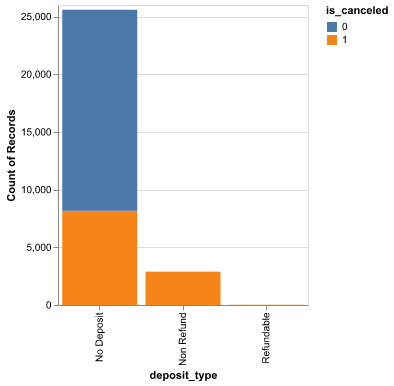
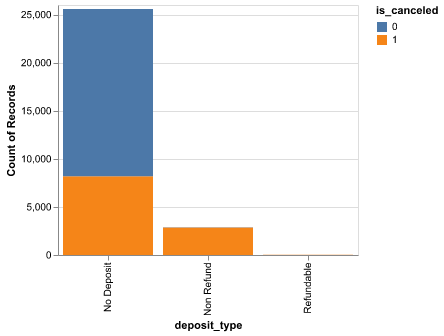
added eda barplot function + tests

diff --git a/tests/test_eda_barplot.py b/tests/test_eda_barplot.py
@@ -1,0 +1,110 @@
+"""
+Unit tests for the create_barplot function.
+
+The tests verify that the create_barplot function correctly generates
+Altair categorical bar plots under expected conditions, handles edge cases
+and raises clear errors for invalid inputs.
+"""
+
+import pytest
+import pandas as pd
+import altair as alt
+import sys
+import os
+sys.path.append(os.path.join(os.path.dirname(__file__), '..'))
+from src.eda_barplot import create_barplot
+
+#expected cases
+def test_create_barplot_basic_categorical():
+    """
+    Basic bar plot with a single categorical variable.
+    """
+    df = pd.DataFrame({"category": ["A", "A", "B", "C", "C"]})
+
+    chart = create_barplot(df, x_col="category")
+
+    assert isinstance(chart, alt.Chart)
+    assert chart.mark == "bar"
+    assert chart.encoding.x.shorthand == "category"
+    assert chart.encoding.x.to_dict()["type"] == "nominal"
+    assert chart.encoding.y.to_dict()["aggregate"] == "count"
+
+def test_create_barplot_with_color_grouping():
+    """
+    Grouped bar plot with a categorical color variable.
+    """
+    df = pd.DataFrame({
+        "group": ["X", "X", "Y", "Y"],
+        "label": ["yes", "no", "yes", "no"]
+    })
+
+    chart = create_barplot(df, x_col="group", color_col="label")
+
+    assert chart.mark == "bar"
+    assert chart.encoding.x.shorthand == "group"
+    assert chart.encoding.x.to_dict()["type"] == "nominal"
+    assert chart.encoding.color.shorthand == "label"
+    assert chart.encoding.color.to_dict()["type"] == "nominal"
+    assert chart.encoding.y.to_dict()["aggregate"] == "count"
+
+#edge cases
+def test_create_barplot_single_unique_value():
+    """
+    Edge case where the categorical column has only one unique value.
+    """
+    df = pd.DataFrame({"type": ["only_one", "only_one", "only_one"]})
+
+    chart = create_barplot(df, x_col="type")
+
+    assert chart.encoding.x.shorthand == "type"
+    assert chart.encoding.x.to_dict()["type"] == "nominal"
+    assert chart.encoding.y.to_dict()["aggregate"] == "count"
+
+def test_create_barplot_multiple_rows_same_category_and_color():
+    """
+    Edge case with repeated category + color combinations.
+    """
+    df = pd.DataFrame({
+        "category": ["A", "A", "A"],
+        "group": ["G1", "G1", "G1"]
+    })
+
+    chart = create_barplot(df, x_col="category", color_col="group")
+
+    assert chart.encoding.x.shorthand == "category"
+    assert chart.encoding.color.shorthand == "group"
+    assert chart.encoding.y.to_dict()["aggregate"] == "count"
+
+#error cases
+def test_create_barplot_empty_dataframe():
+    """
+    Tests if empty dataframe fails with a clear error message.
+    """
+    df = pd.DataFrame()
+
+    with pytest.raises(ValueError, match="Input dataframe is empty."):
+        create_barplot(df, x_col="anything")
+
+
+def test_create_barplot_missing_x_column():
+    """
+    Raises error when x column not present in dataframe.
+    """
+    df = pd.DataFrame({
+        "col1": ["A", "B", "C"]
+    })
+
+    with pytest.raises(ValueError, match="Column 'missing' not found in dataframe."):
+        create_barplot(df, x_col="missing")
+
+
+def test_create_barplot_missing_color_column():
+    """
+    Raises error when color column not present in dataframe.
+    """
+    df = pd.DataFrame({
+        "category": ["A", "B", "C"]
+    })
+
+    with pytest.raises(ValueError, match="Column 'color' not found in dataframe."):
+        create_barplot(df, x_col="category", color_col="color")

diff --git a/scripts/eda.py b/scripts/eda.py
@@ -11,6 +11,10 @@ import click
 import matplotlib.pyplot as plt
 import altair as alt
 import numpy as np
+import sys
+import os
+sys.path.append(os.path.join(os.path.dirname(__file__), '..'))
+from src.eda_barplot import create_barplot
 
 alt.data_transformers.disable_max_rows()
 
@@ -55,22 +59,10 @@ def create_eda_plot(input_path, figure_prefix):
     plt.close()
     click.echo(f"Correlation matrix of numerical features saved!")
 
-    target_dist = alt.Chart(data).mark_bar().encode(
-        x='is_canceled:N',
-        y='count()'
-    ).properties(width=300, height=250)
-
-    target_dist.save(f"{figure_prefix}_target_var_distribution.png")
-
+    create_barplot(data,x_col="is_canceled",output_path=f"{figure_prefix}_target_var_distribution.png")
     click.echo(f" Bar chart of target variable (hotel cancellations) counts  saved!")
 
-    target_dist_hotel_type = alt.Chart(data).mark_bar().encode(
-        x='hotel:N',
-        y='count()',
-        color='is_canceled:N'
-    ).properties(width=300, height=250)
-
-    target_dist_hotel_type.save(f"{figure_prefix}_hotel_vs_cancellations.png")
+    create_barplot(data,x_col="hotel",color_col="is_canceled",output_path=f"{figure_prefix}_hotel_vs_cancellations.png")
     click.echo('Bar Chart of distribution of cancellations across hotel types saved!')
 
     lead_time_plot = alt.Chart(data).transform_density(
@@ -86,32 +78,14 @@ def create_eda_plot(input_path, figure_prefix):
     lead_time_plot.save(f"{figure_prefix}_lead_time_density.png")
     click.echo('Lead time density plot across cancellation classes saved!')
 
-    repeated_guest = alt.Chart(data[['is_repeated_guest', 'deposit_type', 'reserved_room_type', 'is_canceled']]).mark_bar().encode(
-        x='is_repeated_guest:N', 
-        y='count()',
-        color='is_canceled:N'
-        ).properties(width=250)
-
-    repeated_guest.save(f"{figure_prefix}_repeated_guest_vs_cancellations_count.png")
+    create_barplot(data,x_col="is_repeated_guest",color_col="is_canceled",output_path=f"{figure_prefix}_repeated_guest_vs_cancellations_count.png")
     click.echo('Bar chart of repeat guest counts vs cancellations saved!')
 
-    deposit_type = alt.Chart(data).mark_bar().encode(
-        x='deposit_type:N',
-        y='count()',
-        color='is_canceled:N'
-        ).properties(width=250)
-    
-    deposit_type.save(f"{figure_prefix}_deposit_type_vs_cancellations_count.png")
+    create_barplot(data,x_col="deposit_type",color_col="is_canceled",output_path=f"{figure_prefix}_deposit_type_vs_cancellations_count.png")
     click.echo("Bar chart of deposit type vs cancellations saved!")
 
 
-    room_type = alt.Chart(data).mark_bar().encode(
-        x='reserved_room_type:N',
-        y='count()',
-        color='is_canceled:N'
-        ).properties(width=250)
-    
-    room_type.save(f"{figure_prefix}_reserved_room_type_vs_cancellations.png")
+    create_barplot(data,x_col="reserved_room_type",color_col="is_canceled",output_path=f"{figure_prefix}_reserved_room_type_vs_cancellations.png")
     click.echo("Bar chart of reserved room type vs cancellations saved!")
 
 if __name__ == '__main__':

diff --git a/src/eda_barplot.py b/src/eda_barplot.py
@@ -1,0 +1,55 @@
+import os
+import pandas as pd
+import altair as alt
+
+def create_barplot(df, x_col, color_col=None, output_path=None):
+    """
+    Creates a categorical bar plot using Altair.
+
+    Parameters
+    ----------
+    df : pandas.DataFrame
+        Input dataframe.
+    x_col : str
+        Categorical column to map to x-axis.
+    color_col : str, optional
+        Column to map to color encoding.
+    output_path : str, optional
+        If provided, save the chart to this path.
+
+    Returns
+    -------
+    alt.Chart
+        Altair bar chart object.
+
+    Raises
+    ------
+    ValueError
+        If required columns are not present in the dataframe.
+    """
+
+    if df.empty:
+        raise ValueError("Input dataframe is empty.")
+
+    if x_col not in df.columns:
+        raise ValueError(f"Column '{x_col}' not found in dataframe.")
+    
+    if color_col and color_col not in df.columns:
+        raise ValueError(f"Column '{color_col}' not found in dataframe.")
+
+    encoding = {"x": alt.X(x_col, type="nominal"),
+                "y": alt.Y("count()", aggregate="count")}
+    
+    if color_col:
+        encoding["color"] = alt.Color(color_col, type="nominal")
+    
+    chart = (alt.Chart(df)
+            .mark_bar()
+            .encode(**encoding)
+            .properties(width=300, height=250))
+
+    if output_path:
+        os.makedirs(os.path.dirname(output_path), exist_ok=True)
+        chart.save(output_path)
+
+    return chart
